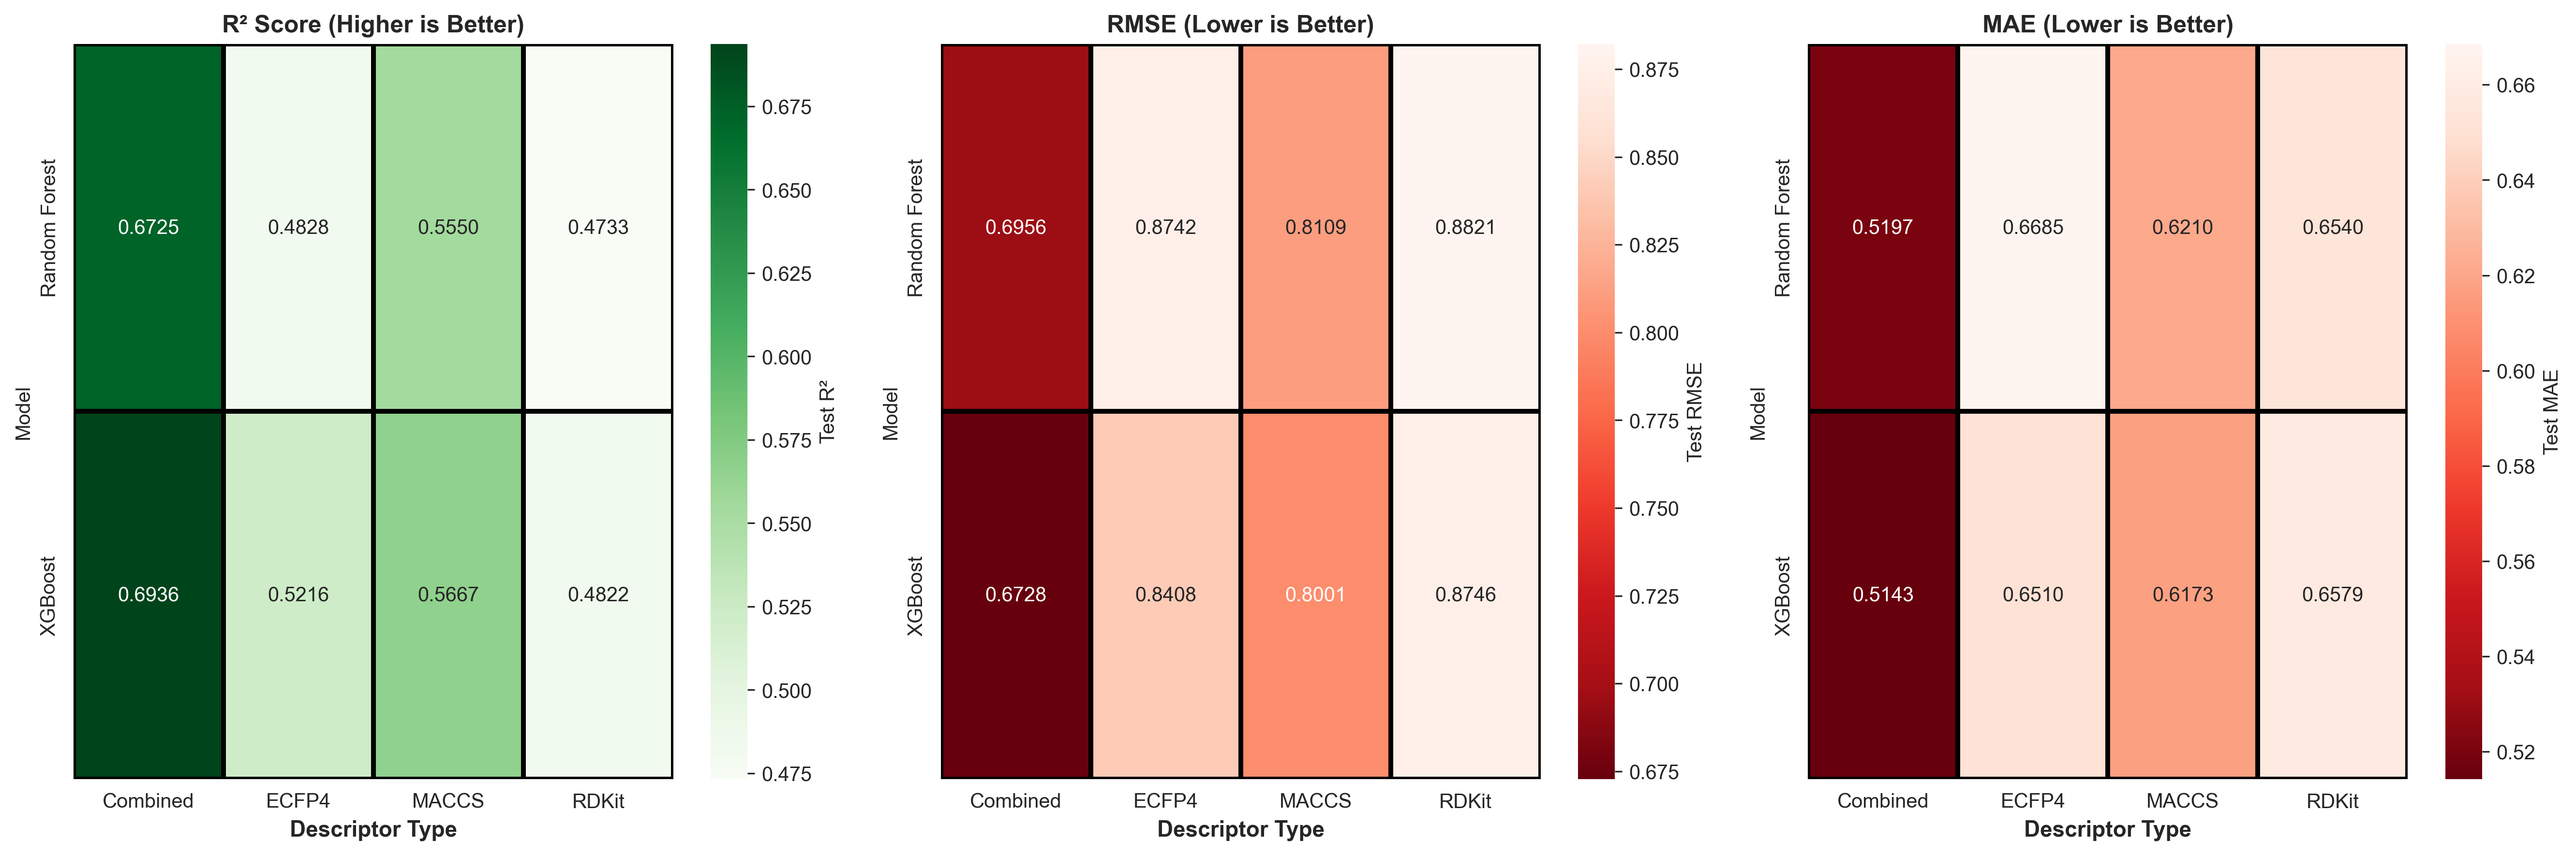
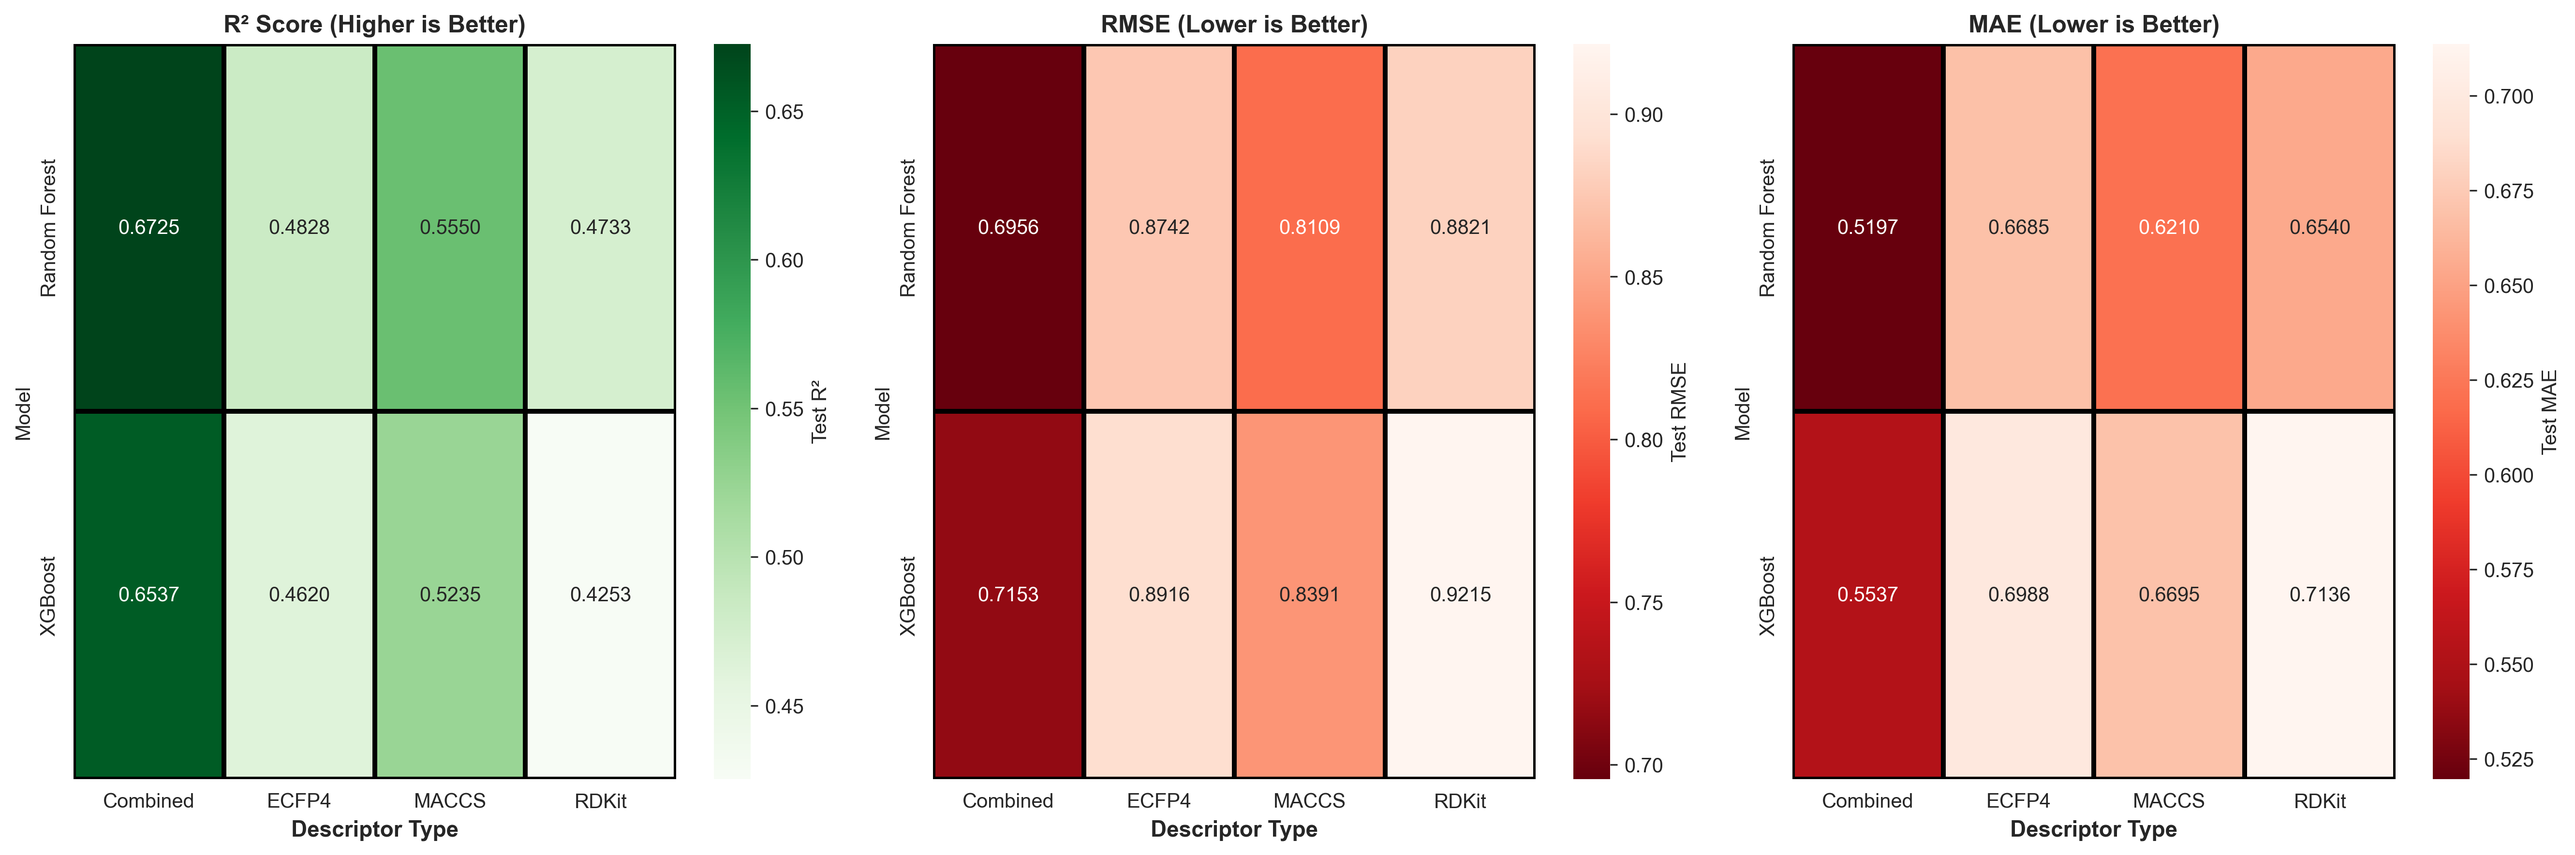
Cleaning code + Adding data validation

diff --git a/qsar_lipophilicity_simple.py b/qsar_lipophilicity_simple.py
@@ -1,9 +1,9 @@
 import numpy as np
 import pandas as pd
-from rdkit import Chem
-from rdkit.Chem import Descriptors, AllChem
-from rdkit.Chem import MACCSkeys                                 # for generating the fingerprint
 from rdkit import Chem, DataStructs                              # We need this for the finger prent conversations
+from rdkit.Chem import Descriptors, AllChem, MACCSkeys           # for generating the fingerprint
+                             
+import joblib                                                    # for saving best model (Chat-GPT)
 
 from sklearn.model_selection import train_test_split             # for spliting them in the two group of training and testing
 from sklearn.ensemble import RandomForestRegressor               # Importing the ML algorithem based on the ensemble of decision trees
@@ -11,7 +11,7 @@ from sklearn.metrics import mean_squared_error, r2_score, mean_absolute_error
 import xgboost as xgb                                            # It's used for the gradient boosting; builds many decisions trees, each correcting erros of the previous ones.
 
 import warnings
-warnings.filterwarnings('ignore', category=FutureWarning)       # Just becuase scikit-learn sometimes makes noisy warning
+warnings.filterwarnings('ignore', category=FutureWarning)        # Just becuase scikit-learn sometimes makes noisy warning
 
 
 #   Phase 1: Loading data
@@ -48,6 +48,43 @@ def load_lipophilicity_data():
         print("TDC not installed. Install with: pip install PyTDC")
         raise
 
+# New: Validating dataset and checking the right columns that we need. (from Chat-GPT; must Check.)
+def validate_dataset(df):
+    
+    print("\nValidating dataset...")
+    
+    # Check required columns
+    required_cols = ['Drug', 'Y']
+    missing_cols = [col for col in required_cols if col not in df.columns]
+    if missing_cols:
+        raise ValueError(f"Missing required columns: {missing_cols}")
+    
+    # Check for empty dataset
+    if len(df) == 0:
+        raise ValueError("Dataset is empty!")
+    
+    # Check for minimum samples
+    if len(df) < 100:
+        print(f"WARNING: Only {len(df)} samples. Need at least 100 for reliable results.")
+    
+    # Check for missing values
+    null_counts = df.isnull().sum()
+    if null_counts.any():
+        print(f"WARNING: Found missing values:\n{null_counts[null_counts > 0]}")
+    
+    # Check for invalid SMILES
+    invalid_count = 0
+    for smiles in df['Drug'][:10]:  # Check first 10
+        if smiles_to_mol(smiles) is None:
+            invalid_count += 1
+    
+    if invalid_count > 0:
+        print(f"WARNING: Found {invalid_count}/10 invalid SMILES in sample")
+    
+    print("✓ Dataset validation complete")
+    return True
+# New
+
 # Phase 2: Molecular Descriptor Generation
 
 def smiles_to_mol(smiles):
@@ -55,8 +92,11 @@ def smiles_to_mol(smiles):
 
     try:
         mol = Chem.MolFromSmiles(smiles)
+        if mol is None:
+            print(f"Warning: Invalid SMILES string: {smiles}")
         return mol
-    except:
+    except Exception as e:
+        print(f"Error processing SMILES '{smiles}': {str(e)}")
         return None
 
 
@@ -112,10 +152,10 @@ def generate_rdkit_descriptors(smiles_list):
 
     # creating a subset of usful descriptors
     descriptor_names = [
-        'MolWt', 'MolLogP', 'NumHDonors', 'NumHAcceptors',
+        'MolWt', 'NumHDonors', 'NumHAcceptors',                     # Removing MolLogP ,which is RDKit's prediction of LogP, to check the model.
         'TPSA', 'NumRotatableBonds', 'NumAromaticRings',
         'NumAliphaticRings', 'FractionCSP3', 'HeavyAtomCount',
-        'NumHeteroatoms', 'RingCount', 'MolMR'
+        'NumHeteroatoms', 'RingCount', 'MolMR', 'NumSaturatedRings' # adding 'NumSaturatedRings'
     ]
     descriptor_data = []
 
@@ -165,8 +205,10 @@ def train_random_forest(X_train, y_train, X_test, y_test):  # Training Random Fo
     # Creating the model with 100 trees
     model = RandomForestRegressor(
         n_estimators=100,       # Number of trees
-        max_depth=20,           # Maximum depth of each tree
-        min_samples_split=5,    # Minimum samples to split a node
+        max_depth=20,           # Maximum depth of each tree (Reduced from 20)
+        min_samples_split=10,    # Minimum samples to split a node (Increased from 5)
+        min_samples_leaf=4,     # ← NEW: Minimum samples in leaves
+        max_features='sqrt',    # ← NEW: Use sqrt of features per tree
         random_state=42,        # for reproducibility
         n_jobs=-1,              # Use all CPU cores, 1= single core
     )
@@ -223,11 +265,15 @@ def train_xgboost(X_train, y_train, X_test, y_test):    # Train an XGBoost regre
 
     # Create model
     model = xgb.XGBRegressor(
-        n_estimators=100,       # Number of boosting rounds
-        max_depth=6,            # Maximum depth of tree
-        learning_rate=0.1,      # Step size for each tree
-        subsample=0.8,          # Fraction of samples for each tree
-        colsample_bytree=0.8,    # Fractino of features for each tree
+        n_estimators=100,           # Number of boosting rounds
+        max_depth=4,                # Maximum depth of tree.    (Reduced from 6, which was deep and ovverfit)
+        min_child_weight=3,         # New: Prevents tiny leaves that fit noise
+        gamma=0.1,                  # New: Making model more conservative for spliting
+        reg_alpha=0.1,              # New: L1 regularization. Penalize large feature weights
+        reg_lambda=1.0,             # New: L2 regularization
+        learning_rate=0.1,          # Step size for each tree
+        subsample=0.8,              # Fraction of samples for each tree
+        colsample_bytree=0.8,       # Fractino of features for each tree
         random_state=42
     )
 
@@ -300,7 +346,7 @@ def compare_descriptors_and_models(df):
         # Generate descriptors
         X = desc_func(smiles_list)
         
-    # Split data: 80% training, 20% testing(test_size=0.2)
+        # Split data: 80% training, 20% testing(test_size=0.2)
         X_train, X_test, y_train, y_test = train_test_split(
             X, y, test_size=0.2, random_state=42
         )
@@ -370,6 +416,9 @@ def main():
     
     # Load data
     df = load_lipophilicity_data()
+
+    # NEW: Calling Validate dataset
+    validate_dataset(df)
     
     # Compare all descriptors and models
     results_df = compare_descriptors_and_models(df)
@@ -397,11 +446,68 @@ def main():
     print("ANALYSIS COMPLETE!")
     print("=" * 80)
     
+    # New (Chat-GPT)---------------------------------------
+    # ... all existing code until the end ...
+    
+    print("\n" + "=" * 80)
+    print("BEST PERFORMING MODEL")
+    print("=" * 80)
+    print(f"\nDescriptor Type: {best_result['Descriptor']}")
+    print(f"Model: {best_result['Model']}")
+    print(f"Test R² Score: {best_result['Test R²']:.4f}")
+    print(f"Test RMSE: {best_result['Test RMSE']:.4f}")
+    print(f"Test MAE: {best_result['Test MAE']:.4f}")
+    
+    # NEW: Retrain best model and save it
+    print("\n" + "=" * 80)
+    print("SAVING BEST MODEL")
+    print("=" * 80)
+    
+    # Regenerate best descriptors
+    smiles_list = df['Drug'].tolist()
+    y = df['Y'].values
+    
+    if best_result['Descriptor'] == 'ECFP4':
+        X = generate_ecfp4_fingerprints(smiles_list)
+    elif best_result['Descriptor'] == 'MACCS':
+        X = generate_maccs_keys(smiles_list)
+    elif best_result['Descriptor'] == 'RDKit':
+        X = generate_rdkit_descriptors(smiles_list)
+    else:  # Combined
+        X = generate_combined_descriptors(smiles_list)
+    
+    X_train, X_test, y_train, y_test = train_test_split(
+        X, y, test_size=0.2, random_state=42
+    )
+    
+    # Retrain best model
+    if best_result['Model'] == 'XGBoost':
+        final_model = train_xgboost(X_train, y_train, X_test, y_test)['model']
+    else:
+        final_model = train_random_forest(X_train, y_train, X_test, y_test)['model']
+    
+    # Save model
+    model_filename = f"best_model_{best_result['Descriptor']}_{best_result['Model'].replace(' ', '_')}.pkl"
+    joblib.dump(final_model, model_filename)
+    print(f"✓ Model saved to '{model_filename}'")
+    
+    # Save descriptor type info
+    with open('model_descriptor_type.txt', 'w') as f:
+        f.write(f"Descriptor: {best_result['Descriptor']}\n")
+        f.write(f"Model: {best_result['Model']}\n")
+        f.write(f"Test R²: {best_result['Test R²']:.4f}\n")
+    print("✓ Model metadata saved to 'model_descriptor_type.txt'")
+    
+    print("\n" + "=" * 80)
+    print("ANALYSIS COMPLETE!")
+    print("=" * 80)
+    # New (Chat-GPT)--------------------------------------------
+
     # Save results
     results_df.to_csv('qsar_results.csv', index=False)
     print("\n✓ Results saved to 'qsar_results.csv'")
     
-    return results_df
+    return results_df, final_model  #New final_model added
 
 
 if __name__ == "__main__":
